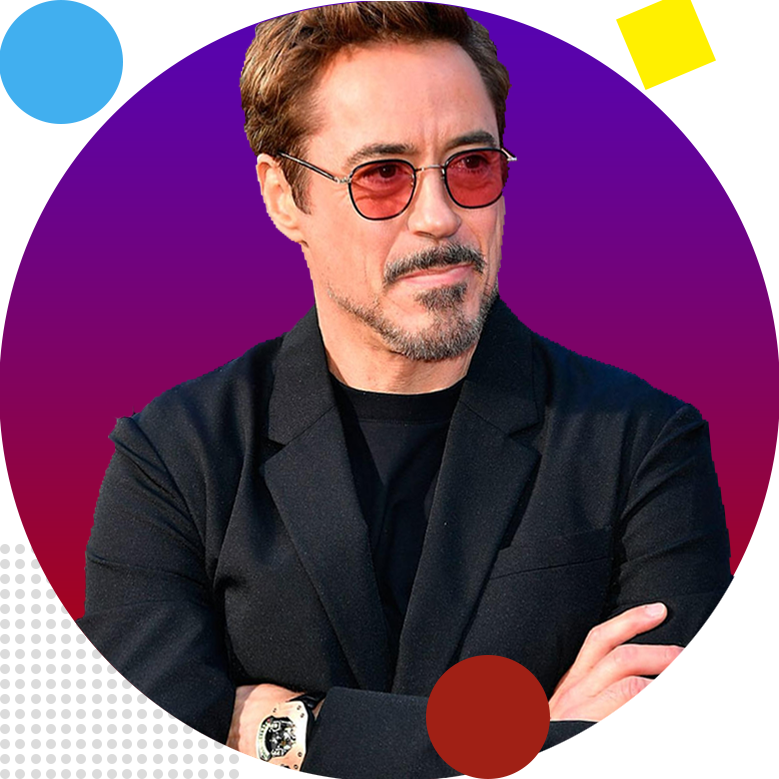
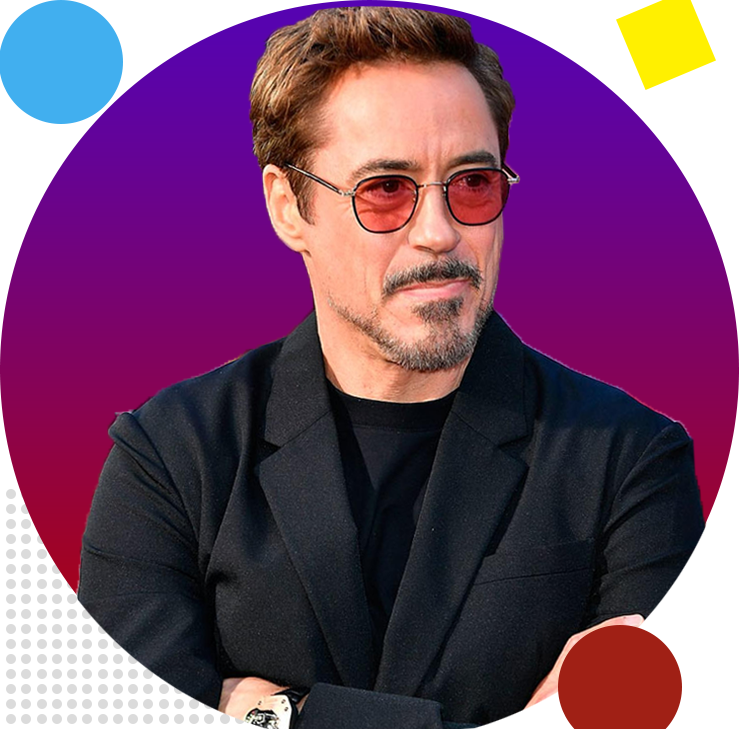
style added

diff --git a/index.html b/index.html
@@ -12,7 +12,7 @@
     <!-- font -->
     <link rel="preconnect" href="https://fonts.googleapis.com">
     <link rel="preconnect" href="https://fonts.gstatic.com" crossorigin>
-    <link href="https://fonts.googleapis.com/css2?family=Manrope:wght@400;700&display=swap" rel="stylesheet">
+    <link href="https://fonts.googleapis.com/css2?family=Open+Sans:wght@400;600;700&display=swap" rel="stylesheet">
 </head>
 <body>
 
@@ -20,11 +20,15 @@
         <div class="left">
             <h1>Welcome To</h1>
             <h1><span class="name">Tony Stark </span>World</h1>
+            <h3>I can fly with my ironman suit.</h3>
+            <p>You might see me to fight with someone. That persons are devil. But nobody pays me for that work. That's why I am learning and mastering web development. I will not stop until I become the Web Development Hero.</p>
+            <a href="#">Hire me</a>
         </div>
         <div class="right">
             <img src="img/robert.png" alt="">
         </div>
     </section>
     
+    <section id="section_padding"></section>
 </body>
 </html>

diff --git a/css/style.css b/css/style.css
@@ -4,22 +4,43 @@
 }
 .welcome{
     display: flex;
-    margin-top: 20px;
+    margin-top: 75px;
 }
 .left{
-    width: 50%;
+    width: 40%;
+    padding-left: 75px;
 }
 .left h1{
-    font-family: 'Manrope', sans-serif;
+    padding: 5px 0;
+    font-family: 'Open Sans', sans-serif;
     font-size: 50px;
-    padding-left: 25px;
+}
+.left h3{
+    padding: 20px 0;
+    font-family: 'Open Sans', sans-serif;
+    font-size: 32px;
+}
+.left p{
+    font-family: 'Open Sans', sans-serif;
+    font-size: 20px;
+    margin: 0 0 20px 0;
 }
 .left span{
-    color: #7e0366;
+    color: #ffbc00;
+}
+.left a{
+    background-image: linear-gradient(#8ee48e, #51c4eb);
+    padding: 10px 35px;
+    color: #fff;
+    border-radius: 15px;
+    font-family: 'Open Sans', sans-serif;
+    font-weight: 700;
+    text-decoration: none;
 }
 .right{
     width: 50%;
 }
 .right img{
     width: 70%;
+    margin-left: 150px;
 }
